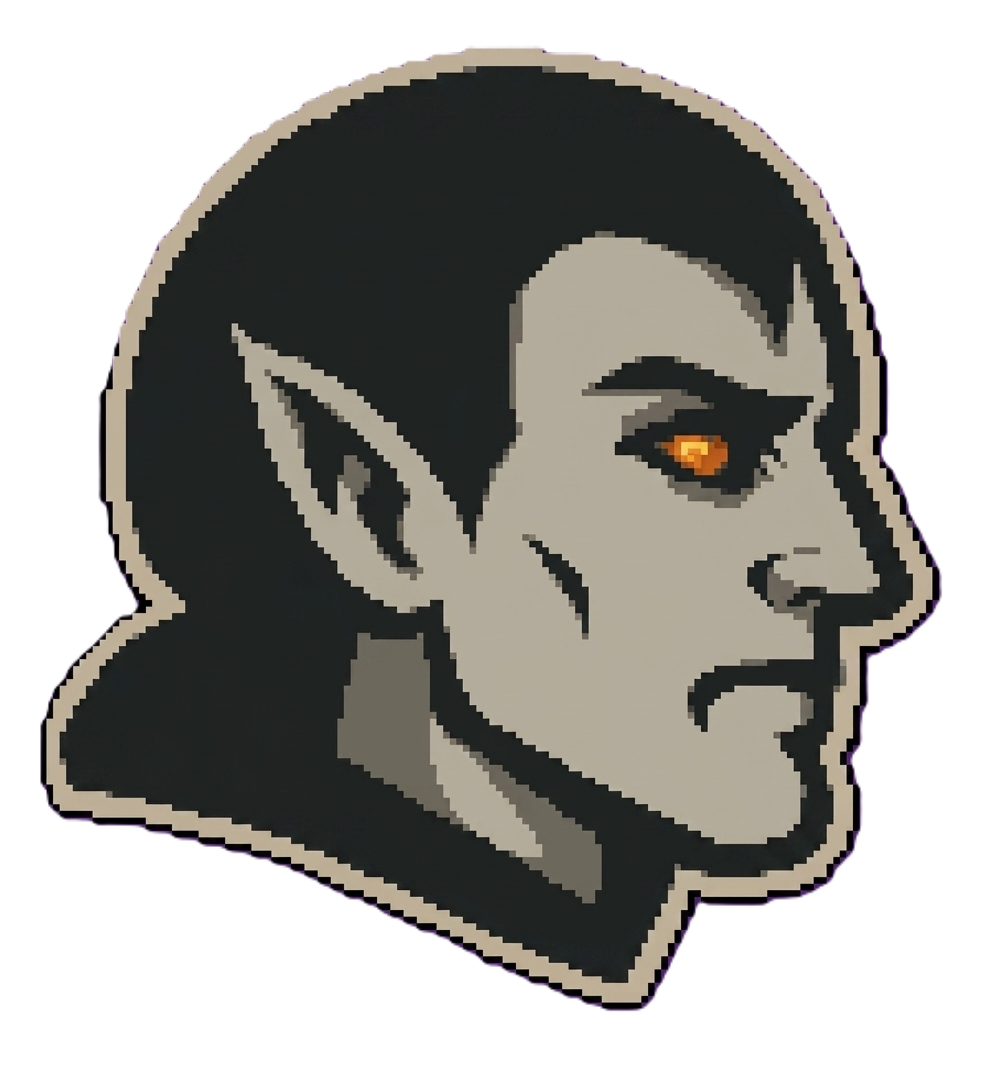
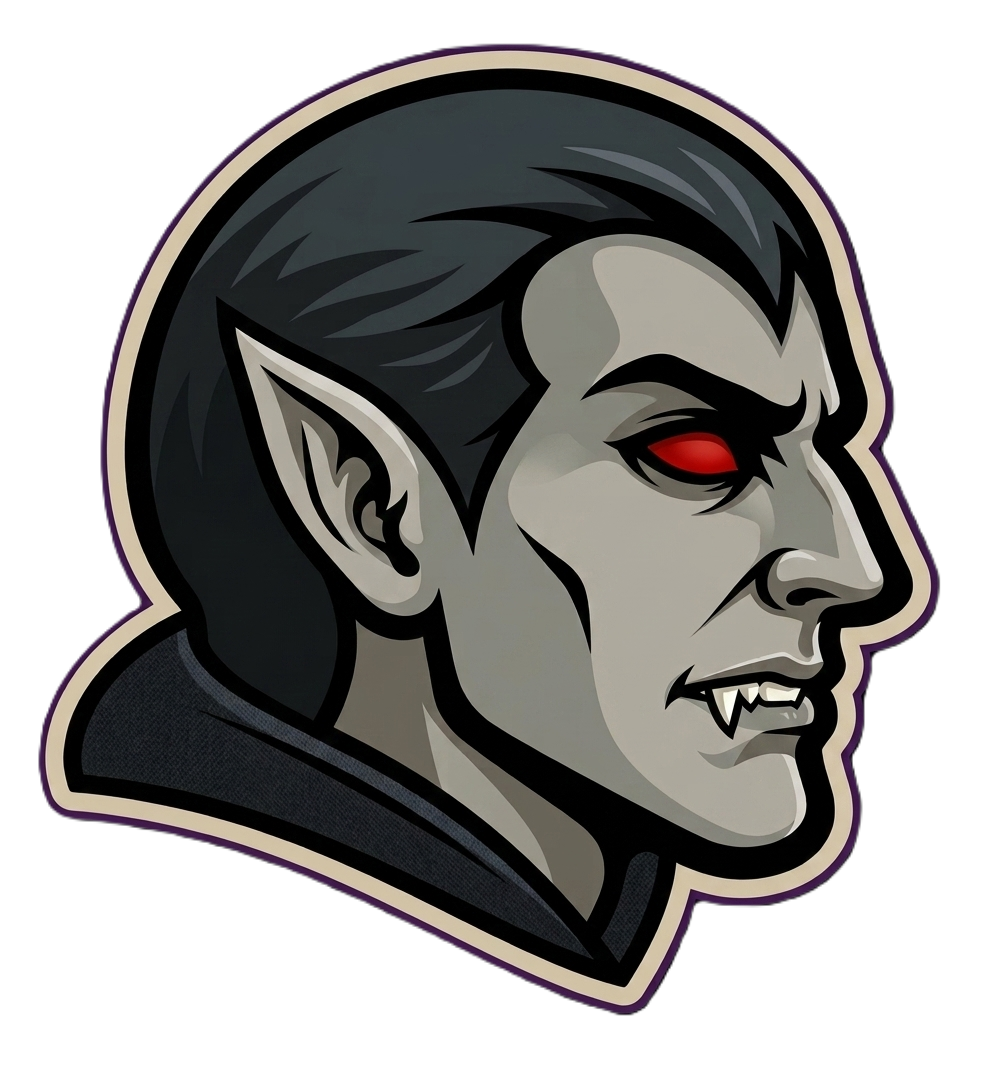
high res images

diff --git a/pages/Rules.py b/pages/Rules.py
@@ -5,6 +5,13 @@ st.set_page_config(page_title="Rules")
 
 require_auth()
 
+st.subheader("Hall of Fame")
+
+col1, col2, col3 = st.columns(3)
+col1.image("assets/202501.png", caption="Tobi (2025-01)", width=150)
+col2.image("assets/202601.png", caption="Pat (2026-01)", width=150)
+col3.image("assets/202602.png", caption="Juri (2026-02)", width=150)
+
 st.markdown("""
 ### Match Scheduling
 
@@ -40,9 +47,6 @@ st.markdown("""
 ### Most Important Rule
 *   Good luck, have fun 🍆
 
-### Hall of Fame
+
 """)
 
-st.image("assets/202501.png", caption="Tobi (2025-01)", width=150)
-st.image("assets/202601.png", caption="Pat (2026-01)", width=150)
-st.image("assets/202602.png", caption="Juri (2026-02)", width=150)